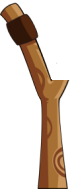
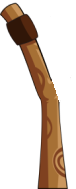
Implementadas mejoras al juego
Mejorada la imagen del fondo del nivel

Ahora se dibuja un vector que indica el lanzamiento del pájaro

Actualizados los valores para la resolución 1920x1080

Físicas aún por mejorar

Changed region(s): [[0.6842, 0.4233, 0.9211, 0.5556]]

diff --git a/Angry Birds/src/objetos/Juego.java b/Angry Birds/src/objetos/Juego.java
@@ -23,110 +23,149 @@ public class Juego {
 	private static GrupoOP grupoEnemigos;
 	private static long milisAbierta;
 	private Nivel Nivel;
-	
+
 	private static Point posicionRaton;
-	
-	private static final Point POSICIONINICIALPAJARO = new Point(150, 515);
+
 	private static Pajaro pajaro;
-	
+
+	private static final Point POSICIONINICIALPAJARO = new Point(225, 785);
 	private static final Color COLORTIRAPAJAROS = new Color(48, 22, 8);
-	
+	private static final int YPOSICIONSUELO = 909;
+
 	public static void init() {
-		
+
 		ventanaJuego = new VentanaJuego();
 		grupoPajaros = new GrupoOP();
 		grupoEnemigos= new GrupoOP();
 		grupoEstructuras= new GrupoOP((int)Math.random()*20);
-//		grupoPajaros.anyadeObjetoPrimitivo();
+		//		grupoPajaros.anyadeObjetoPrimitivo();
 		for (int i=0;i<3;i++) {
 			grupoEnemigos.anyadeObjetoPrimitivo(new Enemigo(700,(1000+100*i),60));
 		}
-		
+
 		pajaro = new Pajaro(POSICIONINICIALPAJARO, null);
 		buclePrincipal();
+		
 	}
-	
+
 	public static void buclePrincipal() {
 		while (!ventanaJuego.estaCerrada()) {
-			
+
 			//Se actualiza la situación de la ventana
 			ventana = ventanaJuego.getJFrame();
-			
+
 			//Coordenadas del ratón dependiendo de si está en pantalla completa o no
-			if(ventana.getExtendedState() == JFrame.MAXIMIZED_BOTH) {
-				posicionRaton = MouseInfo.getPointerInfo().getLocation();
-				
-				//Los 25 pixels de el encabezado
-				posicionRaton.translate(0, -25);
-				
-			}else {
-				posicionRaton = new Point(MouseInfo.getPointerInfo().getLocation().x - ventana.getLocation().x, MouseInfo.getPointerInfo().getLocation().y - ventana.getLocation().y);
-			}
+			posicionRaton = MouseInfo.getPointerInfo().getLocation();
+
+			//Los 25 pixels de el encabezado
+			posicionRaton.translate(0, -25);
 			
+//			System.out.println(posicionRaton);
+
 			if(!pajaro.isLanzado()) {
+				
+				//Identificar si el pájaro está siendo seleccionado o no
 				if(ventanaJuego.isRatonPulsado() && posicionRaton.distance(pajaro.getLocation()) < pajaro.getRadio()){
 					pajaro.setSeleccionado(true);				
 				}
+				
+				//Mover el pájaro si esta seleccionado a corde con la posición del ratón
 				if(ventanaJuego.isRatonPulsado() && pajaro.isSeleccionado()) {
 					pajaro.setLocation(posicionRaton);
-					ventanaJuego.dibujaLinea(160, 520, pajaro.getX(), pajaro.getY(), 4, COLORTIRAPAJAROS);
+					
+					//Choques
+					if(pajaro.choqueConLimitesHorizontales()) {
+						pajaro.setY(YPOSICIONSUELO - pajaro.getRadio());
+					}
+					if(pajaro.choqueConLimitesVerticales()) {
+						pajaro.setX(pajaro.getRadio());
+					}
+		
+					//Animación de catapulta
+					ventanaJuego.dibujaLinea(215, 795, pajaro.getX(), pajaro.getY(), 4, COLORTIRAPAJAROS);
 					pajaro.dibuja(ventanaJuego);
-					ventanaJuego.dibujaLinea(140, 525, pajaro.getX(), pajaro.getY() , 4, COLORTIRAPAJAROS);		
+					ventanaJuego.dibujaLinea(240, 790, pajaro.getX(), pajaro.getY(), 4, COLORTIRAPAJAROS);
+					
+					pajaro.dibujarVectorLanzamiento(ventanaJuego, pajaro.getLocation(), POSICIONINICIALPAJARO);
 				}else {
+					
+					//Lanzamiento del pájaro
 					if(pajaro.isSeleccionado() && !ventanaJuego.isRatonPulsado()) {
-						pajaro.setLocation(POSICIONINICIALPAJARO);
-						pajaro.lanzar(posicionRaton, POSICIONINICIALPAJARO);
+						if(pajaro.getLocation().distance(POSICIONINICIALPAJARO) > 30) {
+							pajaro.lanzar(pajaro.getLocation(), POSICIONINICIALPAJARO);
+						}else {
+							//Volver a dejar el pájaro en su sitio
+							pajaro.setLocation(POSICIONINICIALPAJARO);
+						}
 					}
 					pajaro.setSeleccionado(false);
 				}
+				
+				
 			}else {
+				
+				//Movimiento del pájaro
 				pajaro.move(milisEntreFrames);
-				if(pajaro.choqueConLimitesHorizontales(ventanaJuego)) {
+				
+				//Choques
+				if(pajaro.choqueConLimitesHorizontales()) {
 					pajaro.setvY(-pajaro.getvY());
 				}
-					grupoEnemigos.remover(pajaro.choqueConEnemigos(grupoEnemigos));
+				if(pajaro.choqueConLimitesVerticales()) {
+					pajaro.setvX(-pajaro.getvX());
+				}
+				
+//				grupoEnemigos.remover(pajaro.choqueConEnemigos(grupoEnemigos));
 			}
-			
+
 			pajaro.dibuja(ventanaJuego);
 			grupoEnemigos.dibuja(ventanaJuego);
 
-			
-			
-//			grupoPajaros.dibuja(ventanaJuego);
-//			if(pajaro.getLocation().distance(new Point(150, 515)) < pajaro.getRadio()) {
-				ventanaJuego.dibujaImagen("/imgs/TiraPajarosDelante.png", 149, 551, 0.47, 0, 1);
-//			}
-			
 
-			
-//			System.out.println(pajaro.getLocation().equals(posicionRaton));
-			
-//			grupoEnemigos.dibuja(ventanaJuego);
-//			grupoEstructuras.dibuja(ventanaJuego);
-			
-			
+
+			//			grupoPajaros.dibuja(ventanaJuego);
+			//			if(pajaro.getLocation().distance(new Point(150, 515)) < pajaro.getRadio()) {
+			ventanaJuego.dibujaImagen("/imgs/TiraPajarosDelante.png", 223, 840, 0.74, 0, 1);
+			//			}
+
+
+
+			//			System.out.println(pajaro.getLocation().equals(posicionRaton));
+
+			//			grupoEnemigos.dibuja(ventanaJuego);
+			//			grupoEstructuras.dibuja(ventanaJuego);
+
+
 			try {
 				Thread.sleep(milisEntreFrames);
 			}catch(InterruptedException e) {}
-			
-			
+
+
 			ventanaJuego.repaint();
 		}
-//		ventanaJuego.fin();
+		//		ventanaJuego.fin();
 	}
-	
+
 	public static void main(String[] args) {
 		init();
 	}
+
+
 	
 	
-	
-	
-	
-	
-	
-	
-	
-	
-	
+	public static int getYSuelo() {
+		return YPOSICIONSUELO;
+	}
+
+	public static Point getPosicionInicial() {
+		return POSICIONINICIALPAJARO;
+	}
+
+
+
+
+
+
+
+
 }

diff --git a/Angry Birds/src/objetos/pajaros/Pajaro.java b/Angry Birds/src/objetos/pajaros/Pajaro.java
@@ -7,13 +7,14 @@ import gui.juego.VentanaJuego;
 import objetos.Enemigo;
 import objetos.Estructura;
 import objetos.GrupoOP;
+import objetos.Juego;
 import objetos.ObjetoPrimitivo;
 
 public class Pajaro extends ObjetoPrimitivo {
 
 	private static final String IMAGEN = "/imgs/PajaroRojo.png";
 
-	private static int radio = 30;
+	private static int radio = 15;
 	private double vX;
 	private double vY;
 	private Habilidad habilidad;
@@ -41,26 +42,33 @@ public class Pajaro extends ObjetoPrimitivo {
 	}
 
 	public void dibuja(VentanaJuego v) {
-		v.dibujaImagen(IMAGEN, x, y, radio, radio, 1, 0, 1.0f);
+		v.dibujaImagen(IMAGEN, x, y, radio * 2, radio * 2, 1, 0, 1.0f);
 		
 	}
 	
 	public void lanzar(Point posicionLanzado, Point posicionInicial) {
 		double distanciaX = posicionLanzado.distance(posicionInicial.x, posicionLanzado.y); 
 		double distanciaY = posicionLanzado.distance(posicionLanzado.x, posicionInicial.y); 
-		vX = distanciaX * (distanciaX / (distanciaX * distanciaX + distanciaY * distanciaY));
-		vY = distanciaY * (distanciaX / (distanciaX * distanciaX + distanciaY * distanciaY));
+		double angulo = Math.toRadians(Math.atan(distanciaX / distanciaY) * 180.0 / Math.PI);
+		vX = distanciaX * Math.cos(angulo);
+		vY = distanciaY * Math.sin(angulo);
 		lanzado = true;
 		tiempoEnAire = 0;
 		momentoLanzado = System.currentTimeMillis();
+		System.out.println(vX);
+		System.out.println(vY);
+	}
+	
+	public void dibujarVectorLanzamiento(VentanaJuego v, Point posicionLanzado, Point posicionInicial) {
+		v.dibujaFlecha(posicionLanzado.x, posicionLanzado.y, posicionInicial.x, posicionInicial.y, 2, Color.RED);
 	}
 	
 	public void move(int milisEntreFrames) {
+//		milisEntreFrames = milisEntreFrames / 1000;
 		tiempoEnAire += System.currentTimeMillis() - momentoLanzado;
-		System.out.println(x);
-		System.out.println(y);
 		x = (int) Math.round(x + vX * milisEntreFrames);
-		y = (int) Math.round(y + vY * milisEntreFrames );
+		y = (int) Math.round(y + vY * milisEntreFrames);
+//		System.out.println(getLocation());
 	}
 	//	public void vuela() {
 	//		this.setX(x+vX);/ (1000 * milisEntreFrames) +  tiempoEnAire * tiempoEnAire / (1000 * 1000 * milisEntreFrames * milisEntreFrames));
@@ -68,20 +76,19 @@ public class Pajaro extends ObjetoPrimitivo {
 	//		this.setY(vY);// sera mas desarrollado hasta aplicar una función óptima
 	//	} 
 
-	/**Metodo para comprobar si el pajaro rebota con los bordes de la pantalla de manera horizontal
+	/**Metodo para comprobar si el pajaro rebota con los bordes de la pantalla de manera horizontal. Solo se tiene en cuenta el borde izquierdo
 	 * @param v ventana cuyos bordes se comprobaran
 	 * @return booleano indicando si existe o no choque
 	 */
-	public boolean choqueConLimitesVerticales(VentanaJuego v) {
-		return x+getRadio()>=v.getAnchura()||x-getRadio()<=0;
+	public boolean choqueConLimitesVerticales() {
+		return x-getRadio()<=0;
 	}
 
-	/**Metodo para comprobar si el pajaro rebota con los bordes de la pantalla de manera horizontal
-	 * @param v ventana cuyos bordes se comprobaran
+	/**Metodo para comprobar que el pájaro rebota con el suelo
 	 * @return booleano indicando si existe o no choque
 	 */
-	public boolean choqueConLimitesHorizontales(VentanaJuego v) {
-		return y+getRadio()<=0||y-getRadio()>=600;
+	public boolean choqueConLimitesHorizontales() {
+		return y + radio >= Juego.getYSuelo();
 	}
 
 	/**Metdod para comprobar el choque con estructuras
@@ -150,7 +157,7 @@ public class Pajaro extends ObjetoPrimitivo {
 	}
 
 	public int getRadio() { 
-		return radio - 20;
+		return radio;
 	}
 
 	/**Metodo set del parametro radio que no permite poner numeros negativos

diff --git a/Angry Birds/src/gui/juego/VentanaJuego.java b/Angry Birds/src/gui/juego/VentanaJuego.java
@@ -88,6 +88,7 @@ public class VentanaJuego {
 		panel.setLayout(null);  // Layout nulo para cuando saquemos componentes encima del dibujo
 		ventana.getContentPane().add(panel, BorderLayout.CENTER);
 		ventana.setExtendedState(JFrame.MAXIMIZED_BOTH);
+		ventana.setSize(1280, 720);
 		ventana.addWindowListener(new WindowAdapter() {
 			@Override
 			public void windowClosing(WindowEvent e) {
